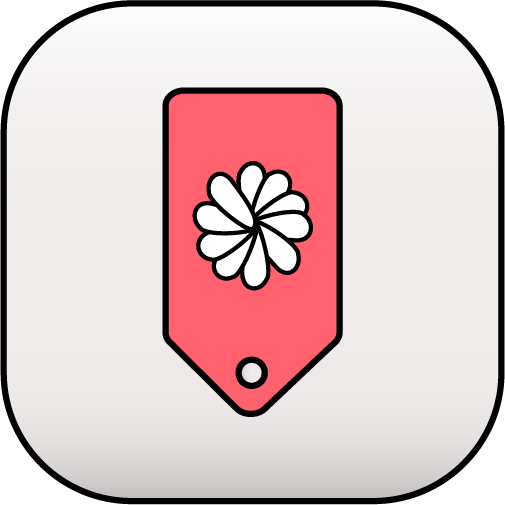
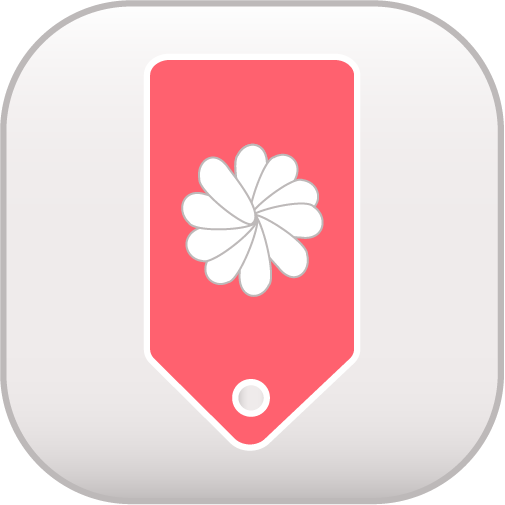
Add files via upload
Changes made: 
-Updated links
-Updated Icon

diff --git a/index.html b/index.html
@@ -1,0 +1,149 @@
+<!doctype html>
+<html>
+<head>
+<meta charset="utf-8">
+<title>Homepage</title>
+	<!-- Inserts for bootsstraps -->
+	<link rel="stylesheet" href="homepage/css/bootstrap.min.css">
+	<!-- My CSS and Fonts -->
+	<link rel="stylesheet" href="homepage/css/stylesheet-1.css" type="text/css">
+	<link href="https://fonts.googleapis.com/css?family=Montserrat|Open+Sans&display=swap" rel="stylesheet">
+	
+</head>
+
+<body>	
+	
+		<div id="mySidenav" class="sidenav">
+		  <a href="javascript:void(0)" class="closebtn" onclick="closeNav()">&times;</a>
+		  <a href="About.html">About</a>
+		  <a href="index.html">Our Work</a>
+		  <a href="FAQ.html">FAQ</a>
+		  <a href="Sign up.html">Sign Up</a>
+		</div>
+
+
+<div id="main">
+  
+  <div class="container">
+		<div>
+			<h2>Homepage</h2>
+			<h3>Our work</h3>
+			<p>Lorem ipsum dolor sit amet, consectetur adipiscing elit, sed do eiusmod tempor incididunt ut labore et dolore magna aliqua. Elit eget gravida cum sociis natoque penatibus. Semper viverra nam libero justo laoreet.</p>
+		</div>	
+	  <div class="element">
+	  	<div class="title">
+			  <h4>Photoshoots</h4>
+	  	</div>
+		<div class="carousel">
+		  <div id="carouselExampleIndicators1" class="carousel slide" data-ride="carousel" style="background-color: grey">
+			  <ol class="carousel-indicators">
+			    <li data-target="#carouselExampleIndicators1" data-slide-to="0" class="active"></li>
+			    <li data-target="#carouselExampleIndicators1" data-slide-to="1"></li>
+		   	  </ol>
+	
+			  <div class="carousel-inner" role="listbox">
+			    <div class="carousel-item active"> 
+					<img class="d-block mx-auto" src="homepage/images/woman-with-blue-lips-on-body-of-water-2710063.jpg" height="200" alt="First slide">
+		        </div>
+			    <div class="carousel-item"> 
+					<img class="d-block mx-auto" src="homepage/images/close-up-photo-of-woman-3294253.jpg" height="200" alt="Second slide">
+		        </div>
+			 
+		      </div>
+			  <a class="carousel-control-prev" href="#carouselExampleIndicators1" role="button" data-slide="prev">
+				  <span class="carousel-control-prev-icon" aria-hidden="true"></span> 
+				  <span class="sr-only">Previous</span> 
+			  </a> 
+			  <a class="carousel-control-next" href="#carouselExampleIndicators1" role="button" data-slide="next">
+				  <span class="carousel-control-next-icon" aria-hidden="true"></span>
+				  <span class="sr-only">Next</span>
+			  </a>
+			</div>
+        </div>
+	  	<div class="under-text">
+			<p>Lorem ipsum dolor sit amet, consectetur adipiscing elit, sed do eiusmod tempor incididunt ut labore et dolore magna aliqua. Elit eget gravida cum sociis natoque penatibus. Semper viverra nam libero justo laoreet.</p>
+	  	</div>
+	  </div>
+	  
+    <div class="element">
+	  	<div class="title">
+			  <h4>Weddings</h4>
+	  	</div>
+		<div class="carousel">
+		  <div id="carouselExampleIndicators2" class="carousel slide" data-ride="carousel" style="background-color: grey">
+		    <ol class="carousel-indicators">
+		      <li data-target="#carouselExampleIndicators2" data-slide-to="0" class="active"></li>
+		      <li data-target="#carouselExampleIndicators2" data-slide-to="1"></li>
+	        </ol>
+		    <div class="carousel-inner" role="listbox">
+		      <div class="carousel-item active"> <img class="d-block mx-auto" src="homepage/images/man-and-woman-kissing-2253870.jpg" height="200" alt="First slide">
+	          </div>
+		      <div class="carousel-item"> <img class="d-block mx-auto" src="homepage/images/glass-of-rose-wine-6289.jpg" height="200" alt="Second slide">
+	          </div>
+
+	        </div>
+		    <a class="carousel-control-prev" href="#carouselExampleIndicators2" role="button" data-slide="prev"> 
+				<span class="carousel-control-prev-icon" aria-hidden="true"></span>
+				<span class="sr-only">Previous</span>
+			  </a> 
+			<a class="carousel-control-next" href="#carouselExampleIndicators2" role="button" data-slide="next"> 
+				<span class="carousel-control-next-icon" aria-hidden="true"></span>
+				<span class="sr-only">Next</span> 
+			</a>
+		    </div>
+        </div>
+	  	<div class="under-text">
+			<p>Lorem ipsum dolor sit amet, consectetur adipiscing elit, sed do eiusmod tempor incididunt ut labore et dolore magna aliqua. Elit eget gravida cum sociis natoque penatibus. Semper viverra nam libero justo laoreet.</p>
+	  	</div>
+	  </div>
+	  <div class="element">
+		<div class="title">
+			<h4>Presents</h4>
+		</div>
+		<div class="carousel">
+	      <div id="carouselExampleIndicators3" class="carousel slide" data-ride="carousel" style="background-color: grey">
+	        <ol class="carousel-indicators">
+	          <li data-target="#carouselExampleIndicators3" data-slide-to="0" class="active"></li>
+	          <li data-target="#carouselExampleIndicators3" data-slide-to="1"></li>
+            </ol>
+	        <div class="carousel-inner" role="listbox">
+	          <div class="carousel-item active">
+			    <img class="d-block mx-auto" src="homepage/images/yellow-pink-and-orange-flower-bouquet-226145 (1).jpg" height="200"  alt="First slide">
+              </div>
+	          <div class="carousel-item"> 
+				  <img class="d-block mx-auto" src="homepage/images/photo-of-woman-holding-flowers-3621150.jpg"  height="200" alt="Second slide">
+              </div>
+              </div>
+            </div>
+	        <a class="carousel-control-prev" href="#carouselExampleIndicators3" role="button" data-slide="prev"> 
+				<span class="carousel-control-prev-icon" aria-hidden="true"></span>
+				<span class="sr-only">Previous</span>
+			</a> 
+			<a class="carousel-control-next" href="#carouselExampleIndicators3" role="button" data-slide="next">
+				<span class="carousel-control-next-icon" aria-hidden="true"></span>
+				<span class="sr-only">Next</span>
+			</a> 
+		  </div>
+        </div>
+		<div class="under-text">
+			<p>Lorem ipsum dolor sit amet, consectetur adipiscing elit, sed do eiusmod tempor incididunt ut labore et dolore magna aliqua. Elit eget gravida cum sociis natoque penatibus. Semper viverra nam libero justo laoreet.</p>
+	  	</div>
+	  </div>
+
+		
+  	<footer class="fixed-bottom">
+		<!-- Element to open the sidenav -->
+		<span onclick="openNav()"><img class="navbar_icon" src="homepage/images/iconfinder_menu-alt_134216.png" alt="hamburger menu"></span>
+	</footer>
+</div>
+	
+
+	
+	<!-- Inserts for bootsstraps -->
+	<script src="homepage/js/jquery-3.4.1.slim.min.js"></script>
+    <script src="homepage/js/popper.min.js"></script>
+    <script src="homepage/js/bootstrap.bundle.min.js"></script>
+	<script src="homepage/js/bootstrap.js"></script>
+	<script src="homepage/js/Off-Canvas Menu.js"></script>
+</body>
+</html>

diff --git a/About.html b/About.html
@@ -1,0 +1,50 @@
+<!doctype html>
+<html>
+<head>
+<meta charset="utf-8">
+<title>About</title>
+	<!-- Inserts for bootsstraps -->
+	<link rel="stylesheet" href="about/css/bootstrap.min.css">
+	<!-- My CSS and Fonts -->
+	<link href="about/css/stylesheet-5.css" rel="stylesheet" type="text/css">
+	<link href="https://fonts.googleapis.com/css?family=Montserrat|Open+Sans&display=swap" rel="stylesheet">
+</head>
+
+<body>
+	
+		<div id="mySidenav" class="sidenav">
+		  <a href="javascript:void(0)" class="closebtn" onclick="closeNav()">&times;</a>
+		  <a href="About.html">About</a>
+		  <a href="index.html">Our Work</a>
+		  <a href="FAQ.html">FAQ</a>
+		  <a href="Sign up.html">Sign Up</a>
+		</div>
+
+
+<div id="main">
+  
+	<div class="container">
+		<div class="title">
+			<h2>About us</h2>
+		</div>
+		<div class="row">
+			<p></p>
+			<img src="about/images/two-women-sitting-on-white-bench-1549280.jpg" height="300" alt="two women sitting"/>
+			<p>Lorem ipsum dolor sit amet, consectetur adipiscing elit, sed do eiusmod tempor incididunt ut labore et dolore magna aliqua. Aliquet porttitor lacus luctus accumsan tortor posuere ac. Ut faucibus pulvinar elementum integer enim neque volutpat. Vulputate enim nulla aliquet porttitor.</p>
+		</div>
+	</div>
+	<footer class="fixed-bottom">
+		<!-- Element to open the sidenav -->
+		<span onclick="openNav()"><img class="navbar_icon" src="about/images/iconfinder_menu-alt_134216.png" alt="hamburger menu"></span>
+	</footer>	
+</div>
+	
+
+	
+	<!-- Inserts for bootsstraps -->
+	<script src="about/js/jquery-3.4.1.slim.min.js"></script>
+	<script src="about/js/bootstrap.bundle.min.js"></script>
+	<script src="about/js/Off-Canvas Menu.js"></script>
+	
+</body>
+</html>

diff --git a/FAQ.html b/FAQ.html
@@ -1,0 +1,58 @@
+<!doctype html>
+<html>
+<head>
+<meta charset="utf-8">
+<title>Frequently Asked Questions</title>
+	<!-- Inserts for bootsstraps -->
+	<link rel="stylesheet" href="faq/css/bootstrap.min.css">
+	<!-- My CSS and Fonts -->
+	<link href="faq/css/stylesheet-3.css" rel="stylesheet" type="text/css">
+	<link href="https://fonts.googleapis.com/css?family=Montserrat|Open+Sans&display=swap" rel="stylesheet">
+</head>
+
+<body>
+		
+		<div id="mySidenav" class="sidenav">
+		  <a href="javascript:void(0)" class="closebtn" onclick="closeNav()">&times;</a>
+		  <a href="About.html">About</a>
+		  <a href="index.html">Our Work</a>
+		  <a href="FAQ.html">FAQ</a>
+		  <a href="Sign up.html">Sign Up</a>
+		</div>
+
+
+<div id="main">
+  <div class="container">
+	<div class="title">
+		<h2>Frequently Asked Questions</h2>
+	 </div>
+	<button class="accordion">Section 1</button>
+	<div class="panel">
+		  <p>Lorem ipsum...</p>
+	</div>
+
+	<button class="accordion">Section 2</button>
+	<div class="panel">
+		  <p>Lorem ipsum...</p>
+	</div>
+
+	<button class="accordion">Section 3</button>
+	<div class="panel">
+		  <p>Lorem ipsum...</p>
+	</div>
+  </div>
+	<footer class="fixed-bottom">
+		<!-- Element to open the sidenav -->
+		<span onclick="openNav()"><img class="navbar_icon" src="faq/images/iconfinder_menu-alt_134216.png" alt="hamburger menu"></span>
+	</footer>	
+</div>
+	
+
+	
+	<!-- Inserts for bootsstraps -->
+	<script src="faq/js/jquery-3.4.1.slim.min.js"></script>
+	<script src="faq/js/bootstrap.bundle.min.js"></script>
+	<script src="faq/js/Off-Canvas Menu.js"></script>
+	<script src="faq/js/acordion.js"></script>
+</body>
+</html>

diff --git a/Sign up.html b/Sign up.html
@@ -1,0 +1,49 @@
+<!doctype html>
+<html>
+<head>
+<meta charset="utf-8">
+<title>Sign up</title>
+	<!-- Inserts for bootsstraps -->
+	<link rel="stylesheet" href="sign up/css/bootstrap.min.css">
+	<!-- My CSS and Fonts -->
+	<link href="sign up/css/stylesheet-4.css" rel="stylesheet" type="text/css">
+	<link href="https://fonts.googleapis.com/css?family=Montserrat|Open+Sans&display=swap" rel="stylesheet">
+</head>
+
+<body>
+		
+		<div id="mySidenav" class="sidenav">
+		  <a href="javascript:void(0)" class="closebtn" onclick="closeNav()">&times;</a>
+		  <a href="About.html">About</a>
+		  <a href="index.html">Our Work</a>
+		  <a href="FAQ.html">FAQ</a>
+		  <a href="Sign up.html">Sign Up</a>
+		</div>
+
+
+<div id="main">
+  	
+ 	<div class="container">
+		<div class="title">
+			<h2>Sign up for an appointment</h2>
+	 	</div>	
+		
+		<div class="form">
+			<input type="text" placeholder="What is your name?" name="Name" required>
+		</div>
+ 	</div>
+
+	<footer class="fixed-bottom">
+	<!-- Element to open the sidenav -->
+	<span onclick="openNav()"><img class="navbar_icon" src="sign up/images/iconfinder_menu-alt_134216.png" alt="hamburger menu"></span>
+	</footer>
+</div>
+	
+
+	
+	<!-- Inserts for bootsstraps -->
+	<script src="sign up/js/jquery-3.4.1.slim.min.js"></script>
+	<script src="sign up/js/bootstrap.bundle.min.js"></script>
+	<script src="sign up/js/Off-Canvas Menu.js"></script>
+</body>
+</html>
